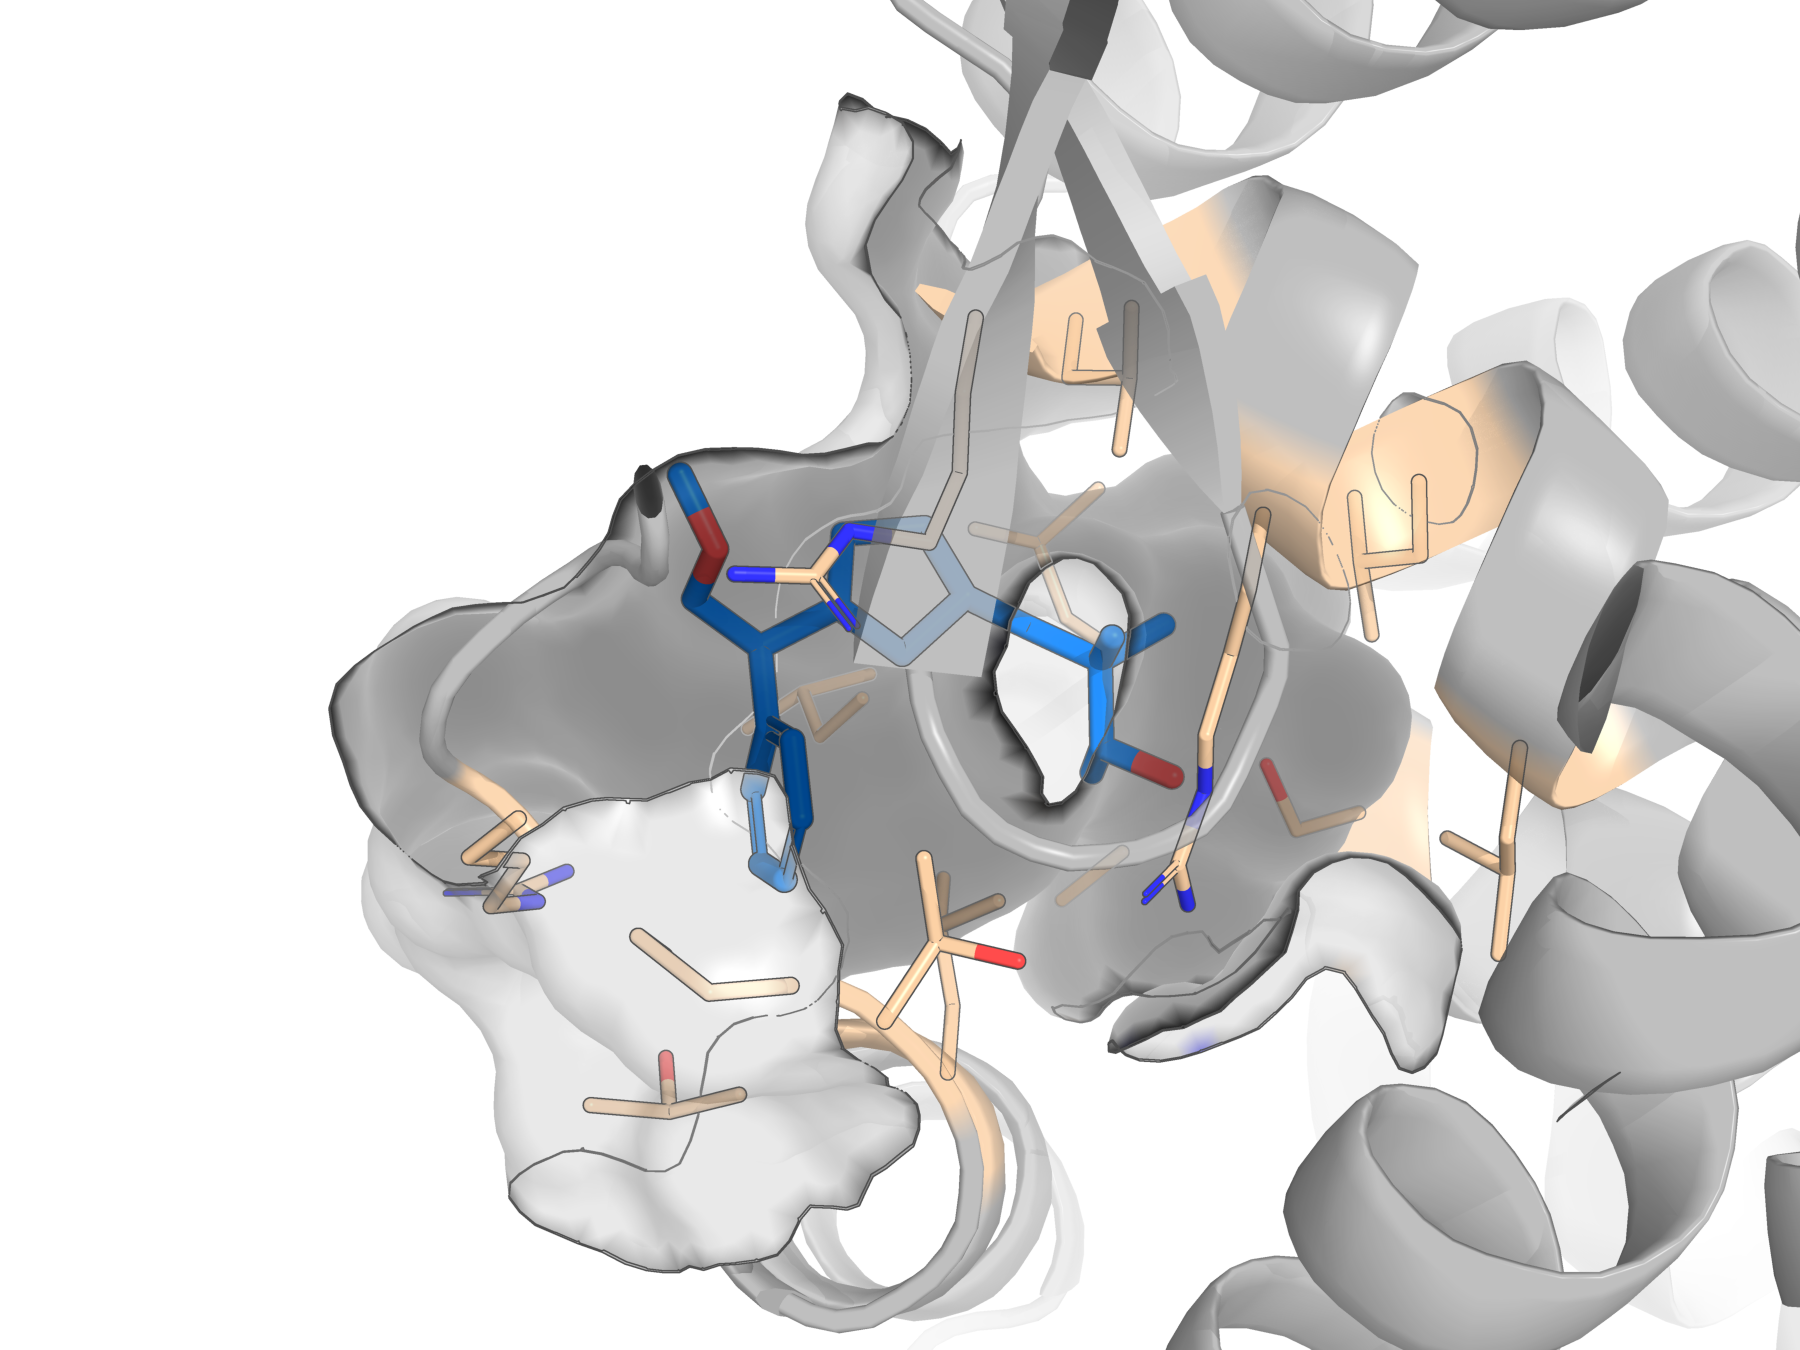
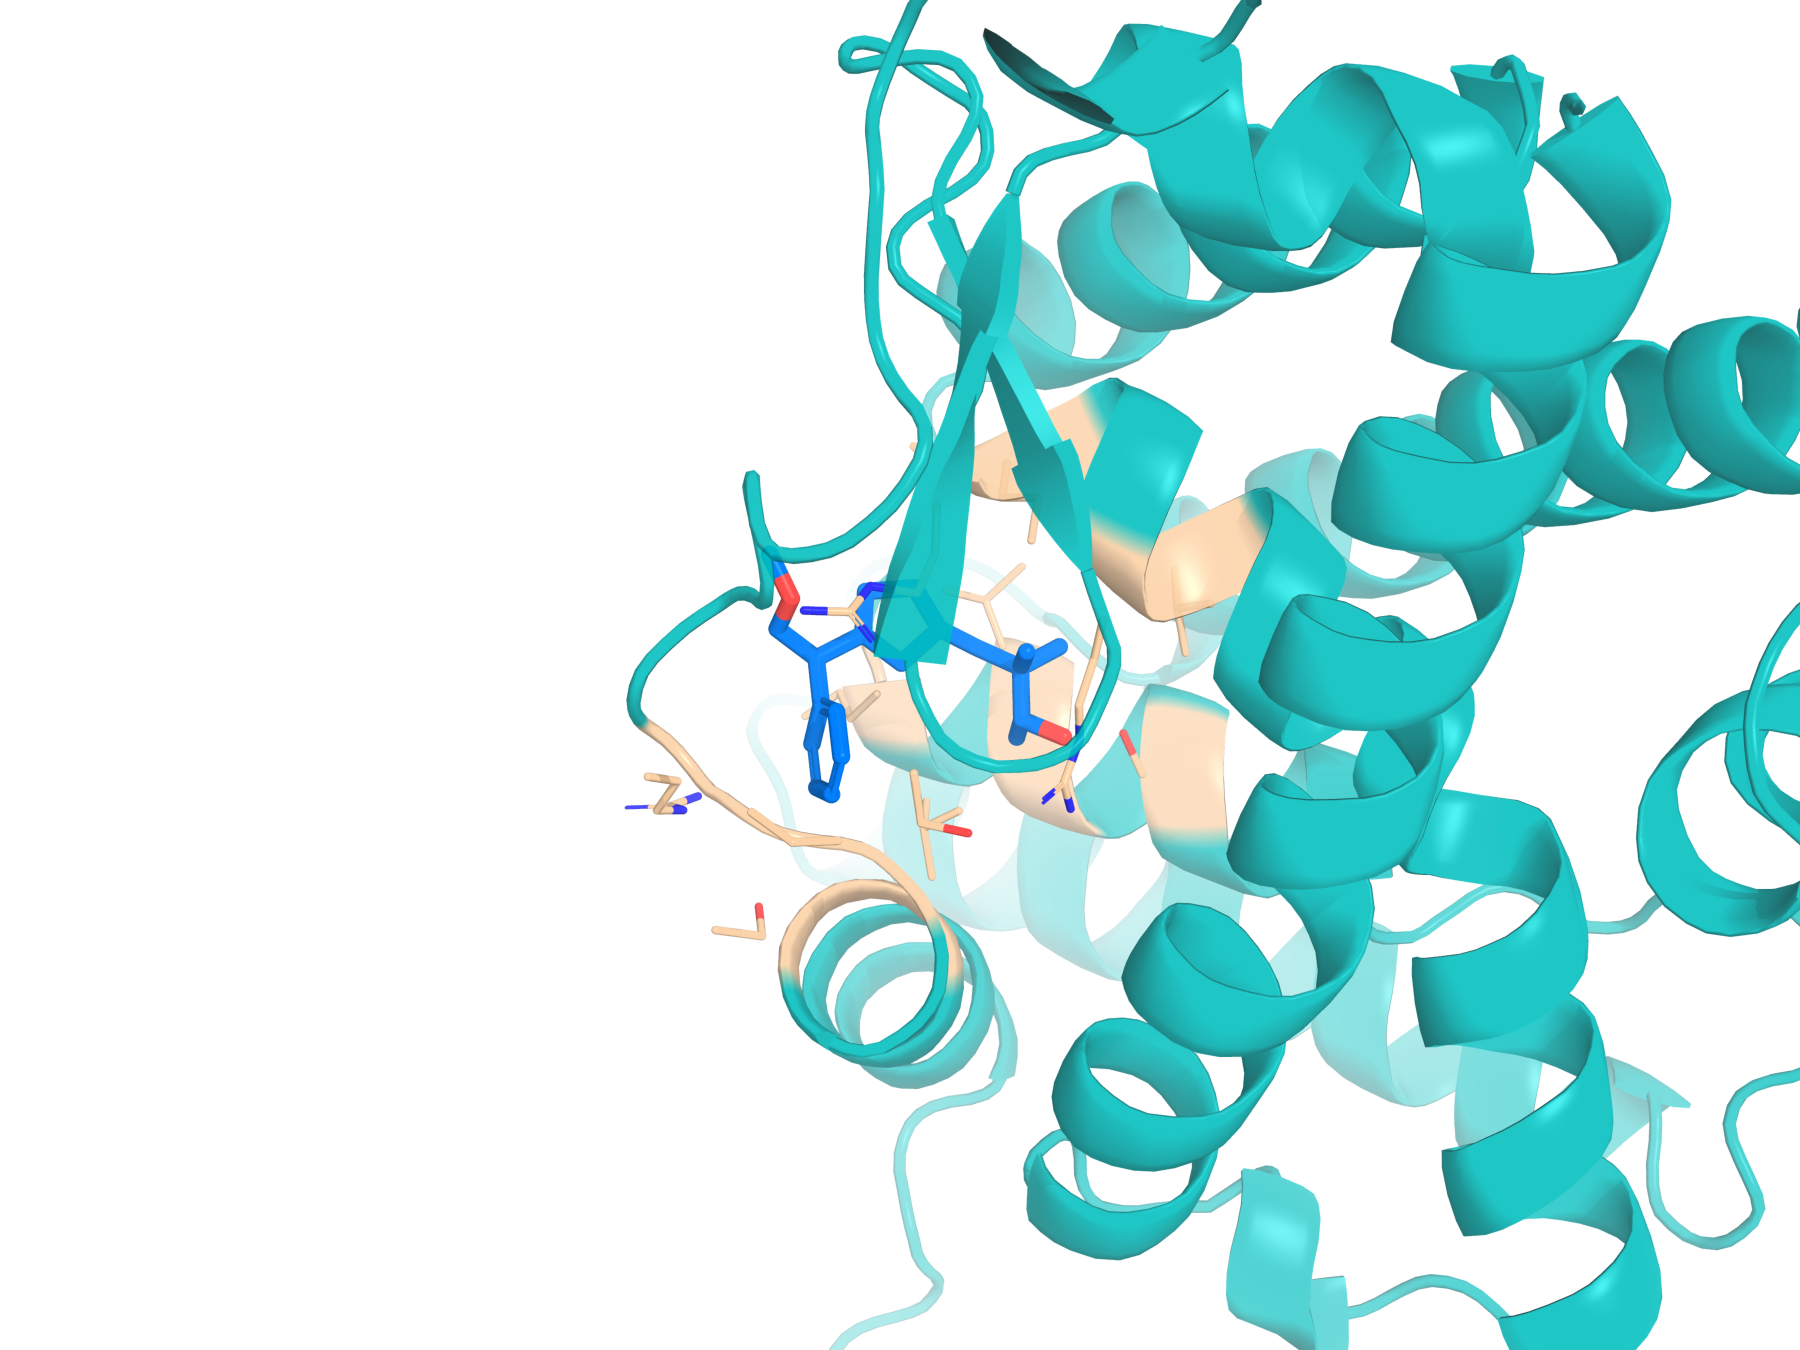
pose-figure: orange high-contrast warhead vs teal fold, recessive grey pocket, centred framing
Claude-Session: https://claude.ai/code/session_01Egzt1qErGZgVV1gsnEddzT

diff --git a/research/modalities/nr4a3_pose_render.py b/research/modalities/nr4a3_pose_render.py
@@ -52,25 +52,24 @@ def main():
     cmd.color("teal", "rec")
     cmd.set("cartoon_transparency", 0.12, "rec")
 
-    # the warhead — thick element-coloured sticks, the visual focus
+    # the warhead — thick sticks, WARM carbons for high contrast against the teal fold (the visual focus)
     cmd.show("sticks", "lig")
-    cmd.set("stick_radius", 0.26, "lig")
-    cmd.color("marine", "lig and elem C")
+    cmd.set("stick_radius", 0.27, "lig")
+    cmd.color("orange", "lig and elem C")
     cmd.util.cnc("lig")
 
-    # pocket-lining side chains within 4.5 A of the ligand — mark the binding site without clutter
+    # pocket-lining side chains within 4.5 A of the ligand — recessive grey, mark the site without competing
     cmd.select("pocket", "byres (polymer within 4.5 of lig)")
     cmd.show("sticks", "pocket and sidechain")
     cmd.set("stick_radius", 0.12, "pocket")
-    cmd.color("wheat", "pocket and elem C")
+    cmd.color("grey80", "pocket and elem C")
     cmd.util.cnc("pocket")
 
-    # framing: medium-wide so BOTH the LBD fold and the buried warhead are visible (no surface — it
+    # framing: centre the warhead with enough fold context to read the LBD helical bundle (no surface — it
     # ray-traces to an opaque blob in outline mode; cartoon + sticks reads cleaner and shows the fit).
     cmd.orient("lig")
-    cmd.zoom("lig", 15)
-    cmd.turn("y", 20)
-    cmd.turn("x", -10)
+    cmd.zoom("lig", 11)
+    cmd.turn("y", 25)
 
     # render — smooth shaded molecular look (no cel outline; that clashed with the pocket sticks)
     cmd.bg_color("white")